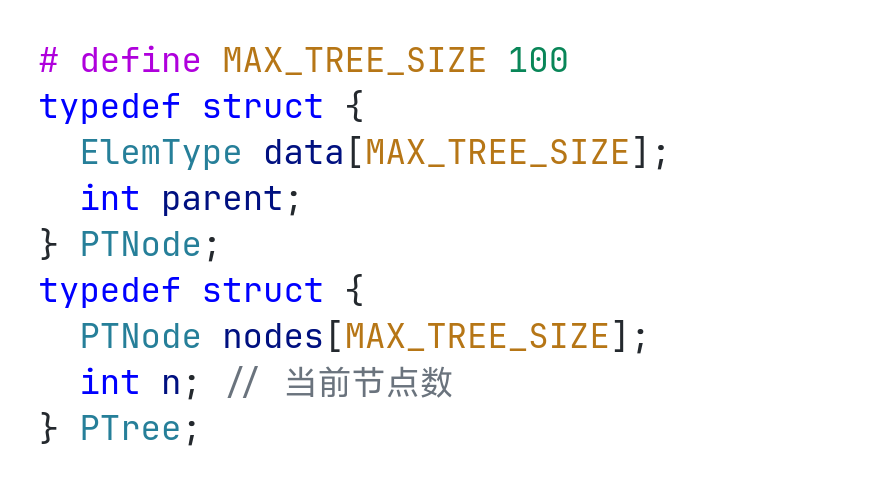
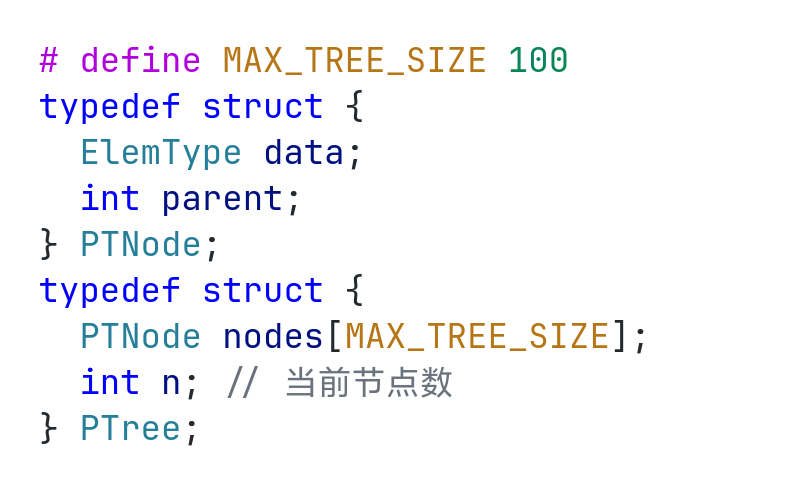
update: Tree

diff --git a/src/app/408/DataStructure/Chapter5.tsx b/src/app/408/DataStructure/Chapter5.tsx
@@ -175,7 +175,7 @@ export default function Chapter2() {
       <h3 className="text-2xl">树、森林</h3>
       <p>
         树的双亲表示法: 一般使用顺序存储.
-        {Img({src: "Images/408/DataStructure/树的双亲表示法.png", width: 430, align: "left", className: "m-0"})}
+        {Img({src: "Images/408/DataStructure/树的双亲表示法.png", width: 400, align: "left", className: "m-0"})}
         可以O(1)找到每个结点的双亲结点, 但找子节点需要O(n)遍历. <br />
         <div className="h-2"></div>
         树的孩子表示法: 使用n个单链表存放n个结点的孩子节点, 单链表的头指针一般用数组存放. <br />
@@ -190,7 +190,7 @@ export default function Chapter2() {
         树转换为二叉树: 每个结点的左指针指向其第一个孩子结点, 右指针指向其在树中的相邻右兄弟结点.(根节点没有右子树)(逆向操作可将二叉树转换为树) <br />
         森林转换为二叉树: 现将每棵树转换为二叉树, 再将所有二叉树的根节点视为兄弟结点用右链域连接起来.(第一棵树的根节点成为所有树的根节点) <br />
         二叉树转换为森林: 断开二叉树根节点的右链域, 直到所有二叉树根节点都没有右子树. <br />
-        于是树、二叉树、森林可相互转换: <br />
+        于是树的森林、二叉树的森林、二叉树可相互转换: <br />
         {Img({src: "Images/408/DataStructure/树二叉树森林.png", width: 600, align: "left", className: "m-0"})}
       </p>
       <p>
@@ -200,7 +200,89 @@ export default function Chapter2() {
         森林的遍历: <br />
         先序遍历森林: 与对应二叉树的先序遍历相同. <br />
         中序遍历森林: 与对应二叉树的中序遍历相同.(每棵树的根都是最后访问, 所以也可以理解为后根遍历) <br />
+        所以 树的先根遍历序列+树的后根遍历序列/森林的先序遍历序列+森林的中序遍历序列 可以唯一确定 一棵树/一个森林. <br />
       </p>
+      <p className="text-[#001080]">
+        "将一棵树转换为二叉树"其实就是用孩子兄弟表示法表示这棵树. 孩子兄弟表示法中, <br />
+        空的左指针域个数 = 树的叶子结点个数; (左指针域为空说明该节点没有子树) <br />
+        空的右指针域个数 = 非叶子结点个数 + 1. (每个非叶子结点的最右孩子的右指针域都为空, 且根节点没有右兄弟)<br />
+      </p>
+      <details open>
+        <summary className="cursor-pointer w-fit font-bold text-lg">例题</summary>
+        <div className="pl-6">
+          {Img({src: "Images/408/DataStructure/Exercises/5_4_1.png", width: 600, align: "left", className: "m-0 mt-1"})}
+          {Img({src: "Images/408/DataStructure/Exercises/5_4_8to10.png", width: 700, align: "left", className: "m-0 mt-1"})}
+          {Img({src: "Images/408/DataStructure/Exercises/5_4_13to15.png", width: 700, align: "left", className: "m-0 mt-1"})}
+          {Img({src: "Images/408/DataStructure/Exercises/5_4_18.png", width: 700, align: "left", className: "m-0 mt-1"})}
+          答案: D C B B B <Space width={1} /> B D C
+          {Img({src: "Images/408/DataStructure/Exercises/5_4_05.png", width: 560, align: "left", className: "m-0 mt-1"})}
+          答案: 
+          {Img({src: "Images/408/DataStructure/Exercises/Solve_5_4_05.png", width: 700, align: "left", className: "m-0 mt-1"})}
+        </div>
+      </details>
+
+      <h3 className="text-2xl">哈夫曼树</h3>
+      <p>
+        路径长度: 路径上的边数; <br />
+        结点的带权路径长度: 从树根到一个结点的路径长度 <Latex>{`$\\boldsymbol{\\cdot}$`}</Latex> 该节点上的权值; <br />
+        树的带权路径长度(WPL): 树中所有叶子结点的带权路径长度之和. <br />
+        (令分支结点的权值为其子树根节点的权值之和, 则 WPL = 所有分支节点的权值之和) <br />
+        哈夫曼树: WPL最小的二叉树, 又称最优二叉树. <br />
+      </p>
+      <p>
+        给定ｎ个权值为别为 w1,w2,...,wn 的结点, 构造一棵哈夫曼树:<br />
+        1) 这ｎ个结点分别作为ｎ棵仅含一个结点的二叉树，构成森林Ｆ. <br />
+        2) 构造一个新结点，从Ｆ中选取两棵根结点权值最小的树作为新结点的左、右子树，新结点的权值为左、右子树上根结点的权值之和. <br />
+        3) Ｆ中删除刚才选出的两棵树，同时将新得到的树加入Ｆ中. <br />
+        4) 重复步骤(2)、(3), 直到Ｆ中只剩下一棵树为止. <br />
+        <div className="h-1" />
+        从上述构造过程中可以看出哈夫曼树具有如下<strong>特点：</strong> <br />
+        １）每个初始结点都作为叶结点，且权值越小的结点到根结点的路径长度越长. <br />
+        ２）每次构造都选择２棵树作为新结点的孩子，因此哈夫曼树中不存在度为１的结点. <br />
+        ３）构造过程中共新建了ｎ－１个结点(<Latex>{`$n_2=n_0-1$`}</Latex>)，因此哈夫曼树的结点总数为２ｎ－１.
+      </p>
+      <p>
+        哈夫曼编码: <br />
+        哈夫曼树中一般约定结点的左分支表示0、右分支表示1, 使用从根到叶子结点路径上的分支标记组成的序列作为叶子结点的编码, 此方式称为哈夫曼编码. 这显然符合<span className="text-[#005cc5]">前缀码没有一个编码是其他编码的前缀</span>的条件.<br />
+      </p>
+      <p>
+        一个度为2的含有n个叶子结点的哈夫曼树高度范围是<Latex>{`$[\\lceil\\log_2n\\rceil, n]$`}</Latex>. <br />
+      </p>
+      <blockquote>
+        由于构造过程中两个树的左右位置不固定, 且可能有多个根结点权值相同, 因此哈夫曼树的构造不是唯一的; 但WPL一定是唯一的. <br />
+        对字符使用哈夫曼编码, 将字符的出现频度作为其结点权值, 则其对应哈夫曼树的WPL为所有字符的二进制编码的长度. <br />
+        <span className="text-[#001080]">度为m的哈夫曼树就是正则m叉树.</span> <br />
+      </blockquote>
+
+      <h3 className="text-2xl">并查集</h3>
+      <p>
+        通常使用树的双亲表示法(数组顺序存储). 初始化时每个元素自成一个单元素集合, 每个集合用一棵树表示, 所有表示集合的树构成表示全集合的森林.
+        要得到两个集合的并集, 只需让其中一个集合的根结点指向另一个集合的根结点. <br />
+      </p>
+      <p>
+        并查集的实现: <br />
+        {Img({src: "Images/408/DataStructure/并查集的实现.png", width: 630, align: "left", className: "m-0"})}
+        (经过该优化的实现, 集合树的高度平均不超过O(a(n)), 最大不超过O(<Latex>{`$\\log_2n$`}</Latex>). 其中a(n)是一个增长极其缓慢的函数(通常<Latex>{`$\\le 4$`}</Latex>)) <br />
+      </p>
+      <blockquote>
+        <span className="text-[#001080]">并查集可以检测图中的环路和图的连通性.</span> <br />
+      </blockquote>
+
+      <details open>
+        <summary className="cursor-pointer w-fit font-bold text-lg">例题</summary>
+        <div className="pl-6">
+          {Img({src: "Images/408/DataStructure/Exercises/5_5_4to6.png", width: 700, align: "left", className: "m-0 mt-1"})}
+          {Img({src: "Images/408/DataStructure/Exercises/5_5_9.png", width: 600, align: "left", className: "m-0 mt-1"})}
+          {Img({src: "Images/408/DataStructure/Exercises/5_5_12.png", width: 650, align: "left", className: "m-0 mt-1"})}
+          {Img({src: "Images/408/DataStructure/Exercises/5_5_16.png", width: 700, align: "left", className: "m-0 mt-1"})}
+          {Img({src: "Images/408/DataStructure/Exercises/5_5_18.png", width: 700, align: "left", className: "m-0 mt-1"})}
+          {Img({src: "Images/408/DataStructure/Exercises/5_5_21to22.png", width: 700, align: "left", className: "m-0 mt-1"})}
+          答案: C B C C D <Space width={1} /> D A D B
+          {Img({src: "Images/408/DataStructure/Exercises/5_5_03.png", width: 700, align: "left", className: "m-0 mt-1"})}
+          答案:
+          {Img({src: "Images/408/DataStructure/Exercises/Solve_5_5_03.png", width: 700, align: "left", className: "m-0"})}
+        </div>
+      </details>
     </div>
   )
 }

diff --git a/public/Code/union.cpp b/public/Code/union.cpp
@@ -1,0 +1,29 @@
+#define SIZE 100
+int UFSets[SIZE];
+void Initial(int S[]) {
+  for (int j = 0; j < SIZE; j++) 
+    S[j] = -1;
+}
+void Union(int S[], int Root1, int Root2) {
+  if (Root1 == Root2) return; // 不要让根节点指向其自己
+  if (S[Root2] > S[Root1]) { // Root2 集合结点数更少
+    S[Root1] += S[Root2]; // 根结点值的绝对值表示集合的结点总数
+    S[Root2] = Root1; // 小树合并到大树
+  } else {
+    S[Root2] += S[Root1];
+    S[Root1] = Root2;
+  }
+}
+int Find(int S[], int x) {
+  int root = x;
+  while (root >= 0) {
+    root = S[root]; // 找到x所在集合的根节点
+  }
+  // 路径压缩: x到根节点的路径上的所有节点都直接指向根节点
+  while (x != root) {
+    int t = S[x];
+    S[x] = root;
+    x = t;
+  }
+  return root;
+}

diff --git a/public/Code/tree.cpp b/public/Code/tree.cpp
@@ -211,7 +211,7 @@ void BTreeToExp(BTree *root, int depth) {
 
 # define MAX_TREE_SIZE 100
 typedef struct {
-  ElemType data[MAX_TREE_SIZE];
+  ElemType data;
   int parent;
 } PTNode;
 typedef struct {
